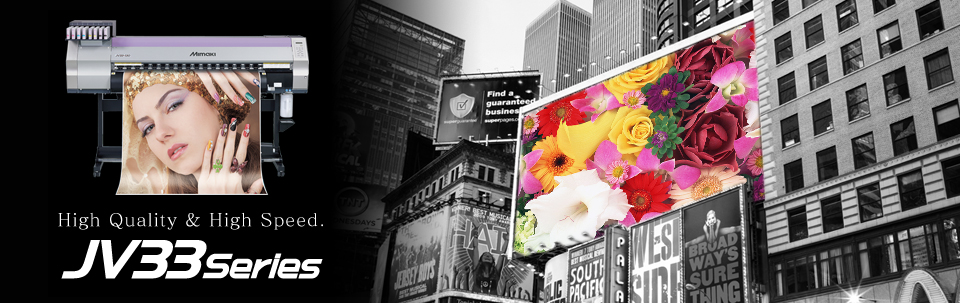
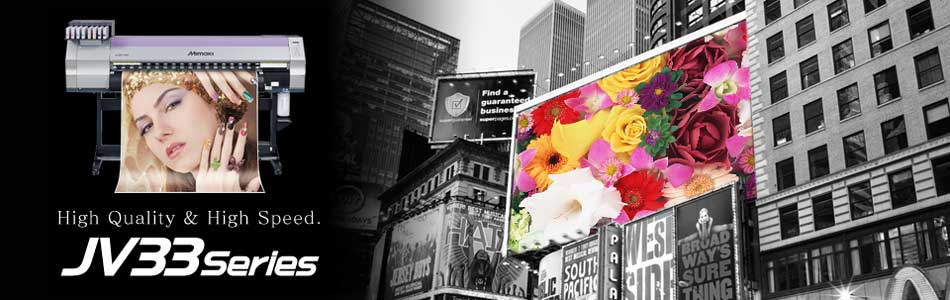
resizing images

diff --git a/mehrad changes on index/style.css b/mehrad changes on index/style.css
@@ -256,7 +256,7 @@ section.banner{
 	overflow: hidden;
 	position: relative;
 	padding-top:1px;
-	min-height:500px;
+
 
 }
 div.banner div.scroll{
@@ -267,7 +267,7 @@ div.banner div.scroll{
 	top:0;
 	-webkit-transition-property:all;
 	-webkit-transition-duration:800ms;
-	-webkit-transition-timing-function:cubic-bezier(0,0.7,0.3,1);
+	
 	
 }
 div.banner div.scroll div{
@@ -339,19 +339,19 @@ section.banner div.bottons ul li{
 }
 
 section.banner div.bottons ul li.img1{
-	background-image: url('images/1314185536e7dc68a5.JPG');
+	background-image: url('images/13329998544218bd7e.JPG');
 }
 section.banner div.bottons ul li.img2{
-	background-image: url('images/1314185598f1795cfd.JPG');
+	background-image: url('images/132919621334df53ce.JPG');
 }
 section.banner div.bottons ul li.img3{
 	background-image: url('images/13291961521ef30c82.JPG');
 }
 section.banner div.bottons ul li.img4{
-	background-image: url('images/132919621334df53ce.JPG');
+	background-image: url('images/1314185598f1795cfd.JPG');
 }
 section.banner div.bottons ul li.img5{
-	background-image: url('images/13329998544218bd7e.JPG');
+	background-image: url('images/1314185536e7dc68a5.JPG');
 }
 
 

diff --git a/mehrad changes on index/index.html b/mehrad changes on index/index.html
@@ -26,14 +26,13 @@
 		<section class="banner">
 			
 
-			<div class="scroll" id="scroll">
-				<div><img src="images/132746088563c2de1d.JPG" alt="" width="950" height="303" /></div>
-				<div><img src="images/13274608779cd0af20.JPG" alt="" width="950" height="303" /></div>
-				<div><img src="images/13329970497e58993a.JPG" alt="" width="950" height="303" /></div>
-				<div><img src="images/1329301246a476aad2.JPG" alt="" width="950" height="303" /></div>
-				<div><img src="images/1329273262dca1c3ea.JPG" alt="" width="950" height="303" /></div>
-
-			</div>
+			<div class="scroll">
+        		<div class="adv1"></div>
+            	<div class="adv2"></div>
+            	<div class="adv3"></div>
+            	<div class="adv4"></div>
+            	<div class="adv5"></div>
+        	</div>
 			<div class="bottons">
 				<div class="next left" onclick="prvSlide()"></div>
 				<div class="prv right" onclick="nextSlide()"></div>
